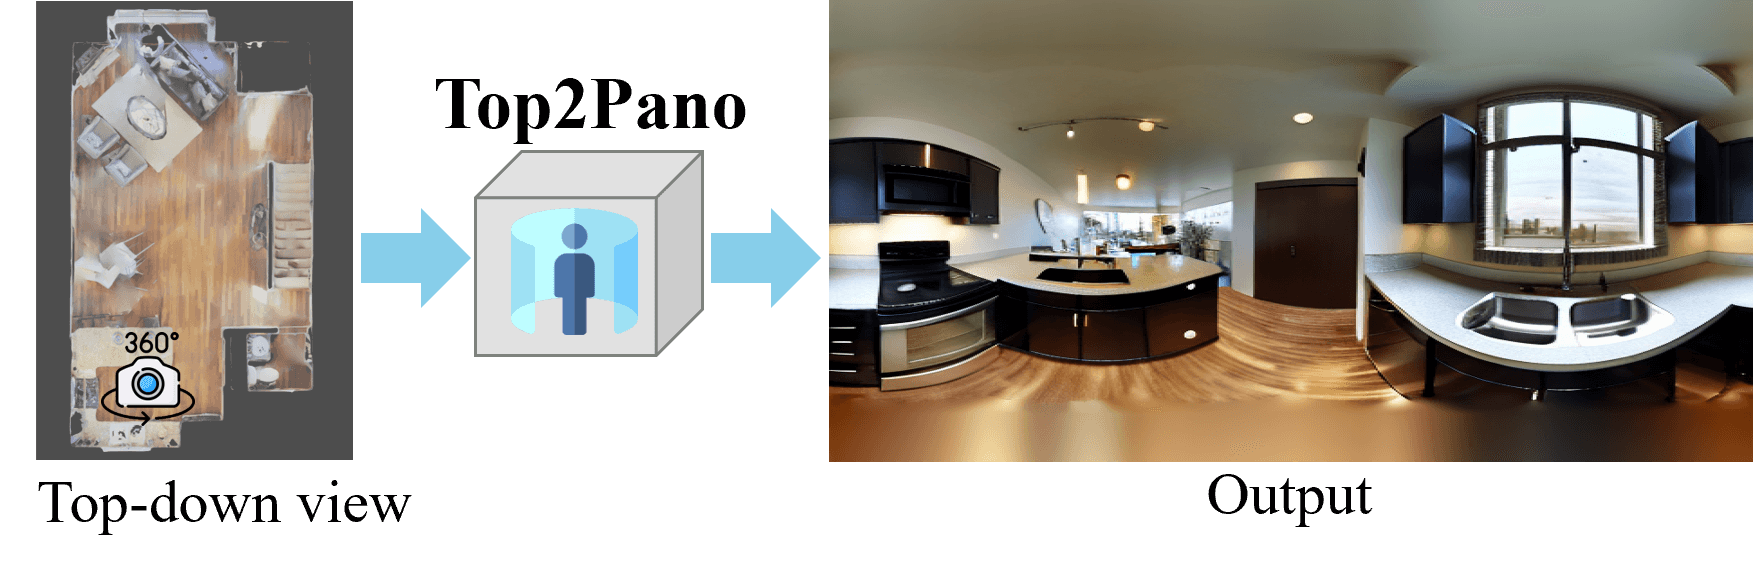
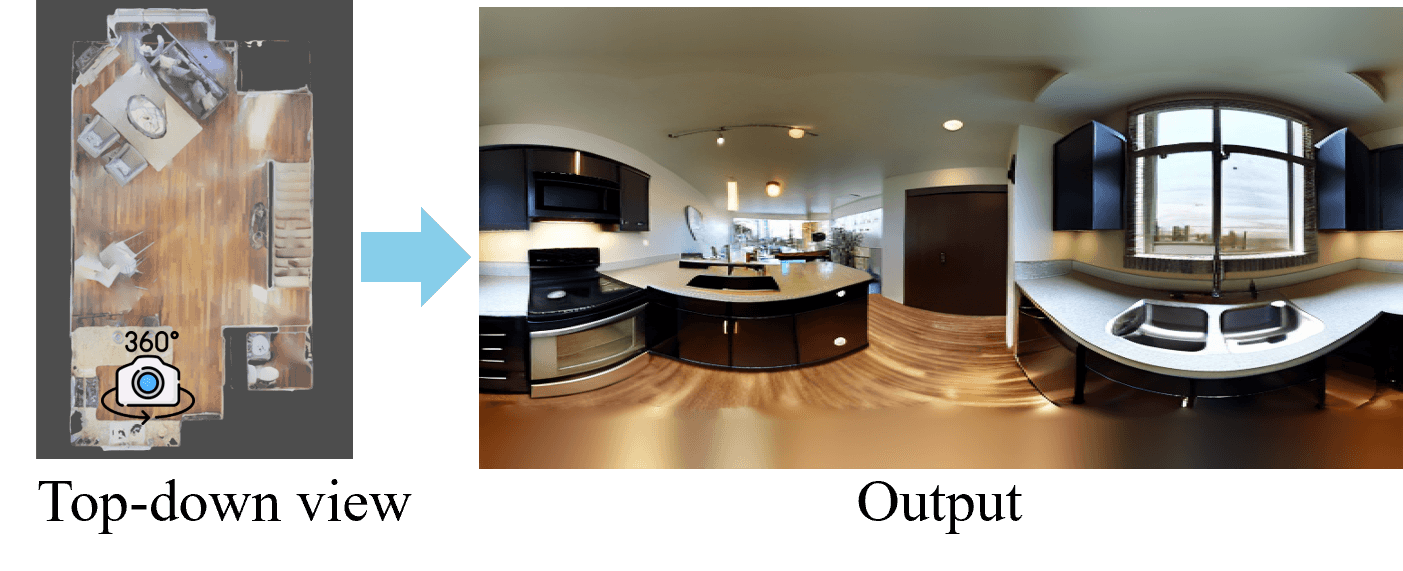
Add DAC

diff --git a/_pages/publications.md b/_pages/publications.md
@@ -10,10 +10,21 @@ author_profile: true
 			<td style="border: 1px solid transparent" height="112" width='150' align="left"><img border="2" src="https://ruiyu0.github.io/images/Top2Pano.png" width="150"></td>
 			<td height="112" style="border: 1px solid transparent">
 			  <p style="text-indent: 0em">
-				<a href="/"> <b>Top2Pano: Learning to Generate Indoor Panoramas from Top-Down View</b> </a> <br>
+				<a href=""> <b>Top2Pano: Learning to Generate Indoor Panoramas from Top-Down View</b> </a> <br>
 				Zitong Zhang, Suranjan Gautam, <b>Rui Yu</b> <br>
 				IEEE/CVF International Conference on Computer Vision (<b>ICCV</b>), 2025.<br>
-				[paper (to appear)]
+				[paper]
+			  </p>
+			</td>
+		</tr>
+		<tr style="border: 1px solid transparent">
+			<td style="border: 1px solid transparent" height="112" width='150' align="left"><img border="2" src="https://ruiyu0.github.io/images/DAC.png" width="150"></td>
+			<td height="112" style="border: 1px solid transparent">
+			  <p style="text-indent: 0em">
+				<a href=""> <b>Describe, Adapt and Combine: Empowering CLIP Encoders for Open-set 3D Object Retrieval</b> </a> <br>
+				Zhichuan Wang, Yang Zhou, Zhe Liu, <b>Rui Yu</b>, Song Bai, Yulong Wang, Xinwei He, Xiang Bai <br>
+				IEEE/CVF International Conference on Computer Vision (<b>ICCV</b>), 2025.<br>
+				[paper]
 			  </p>
 			</td>
 		</tr>
